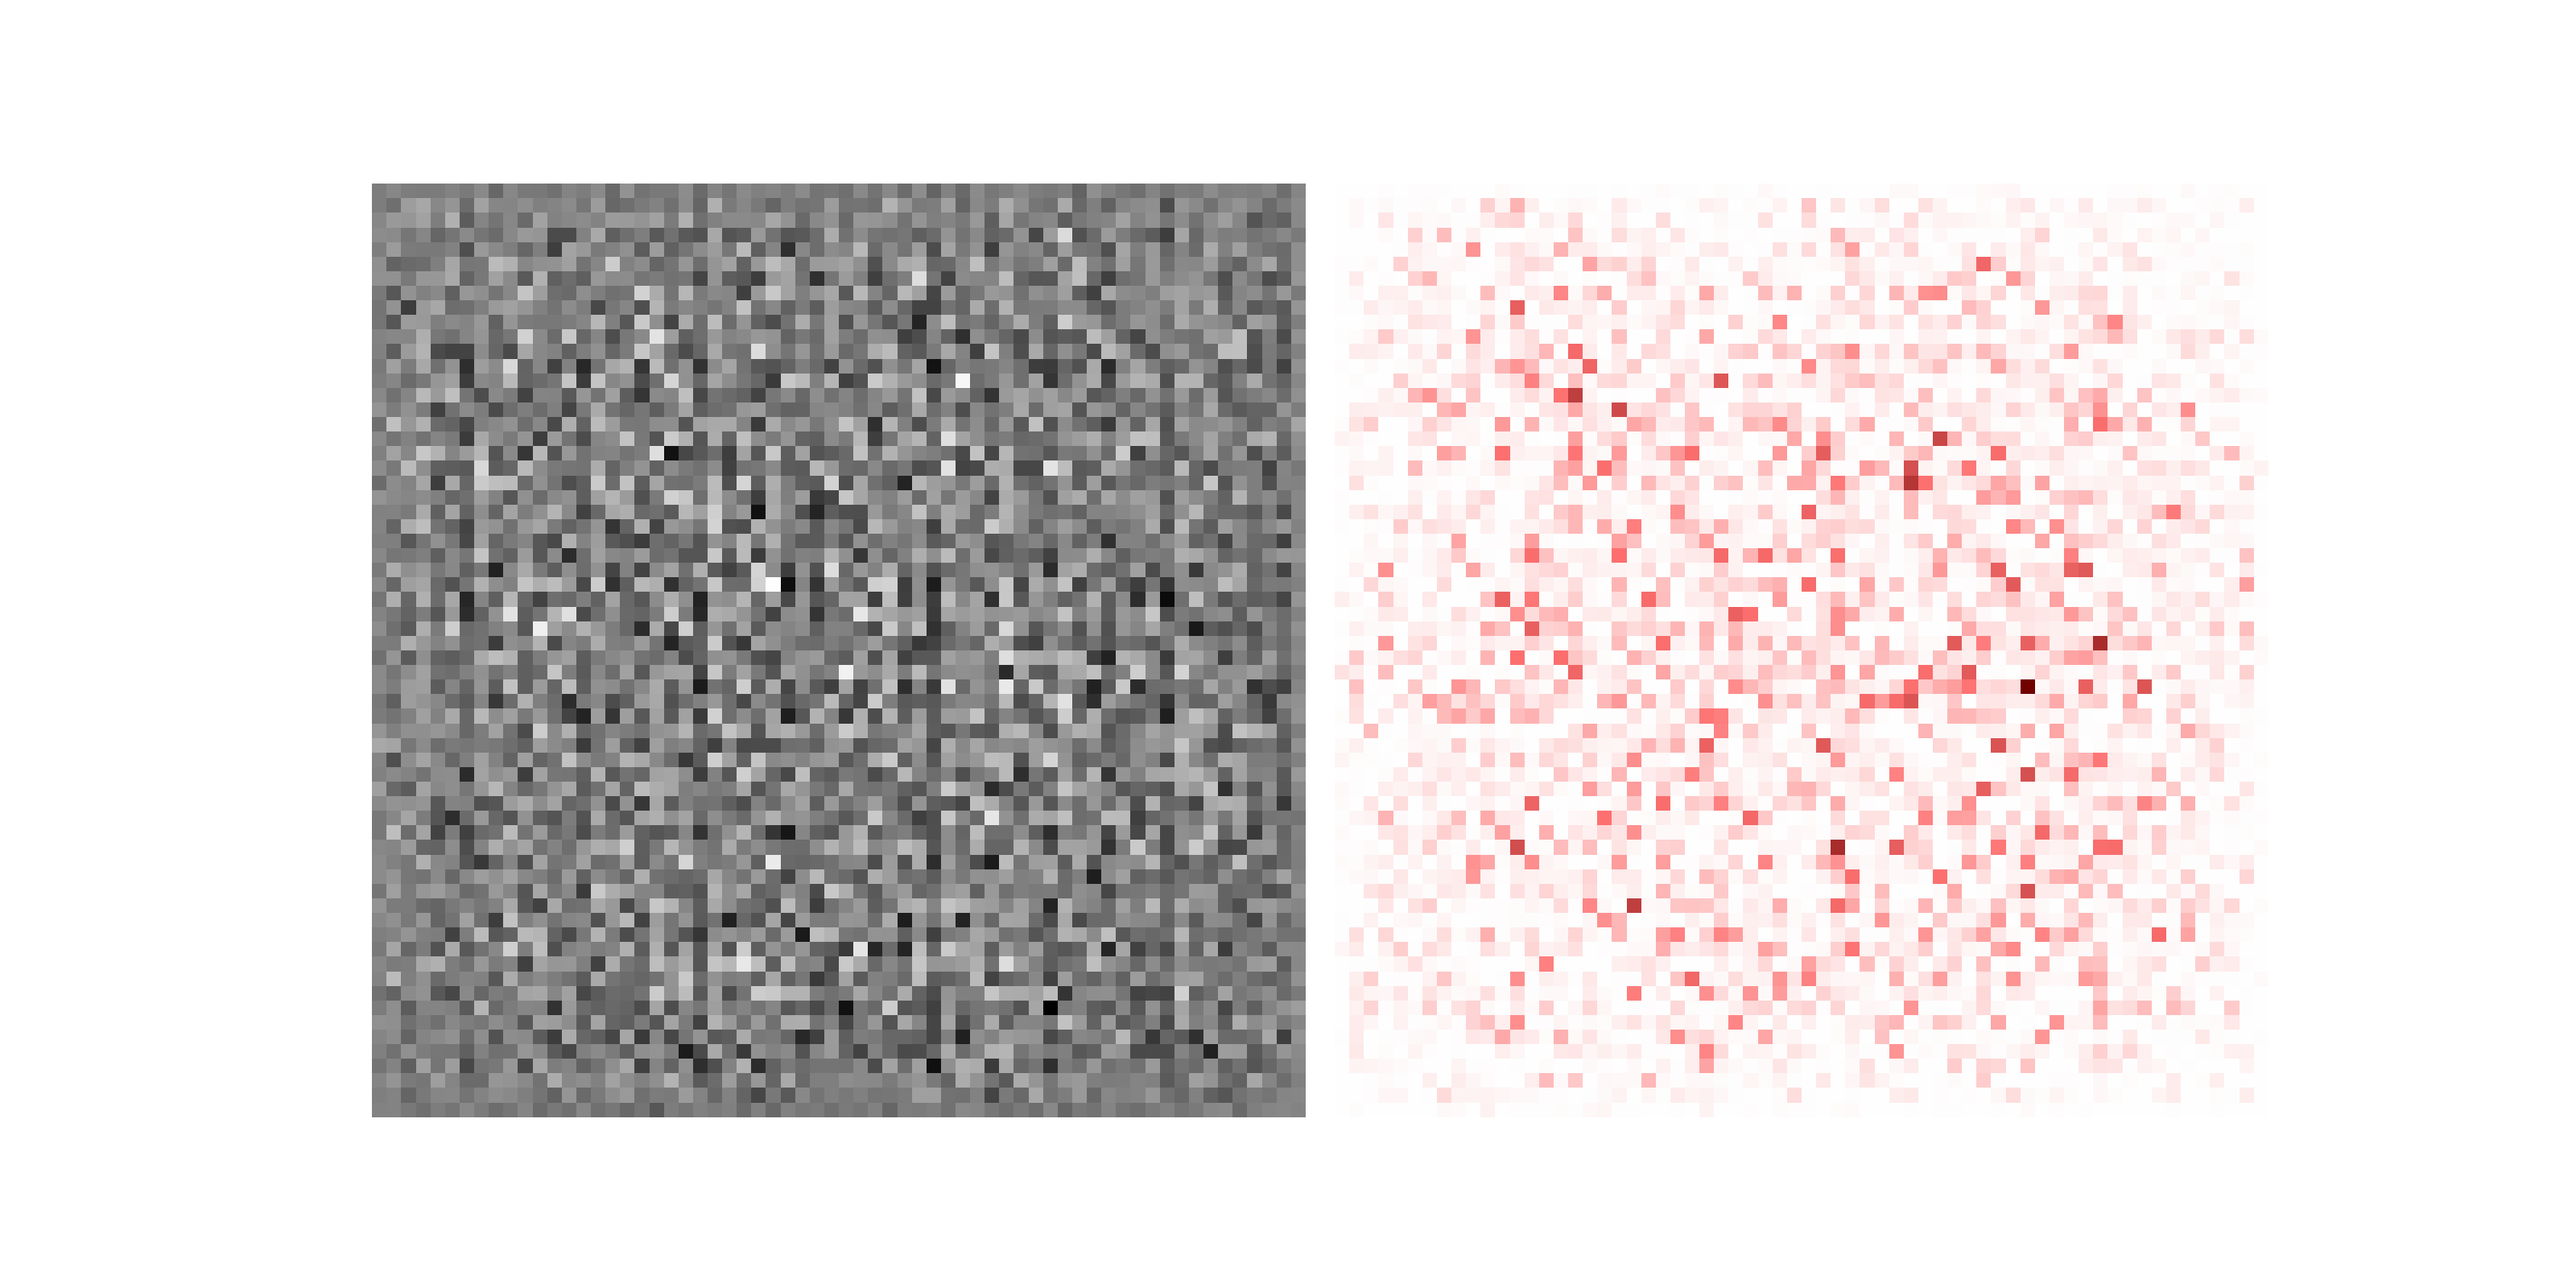
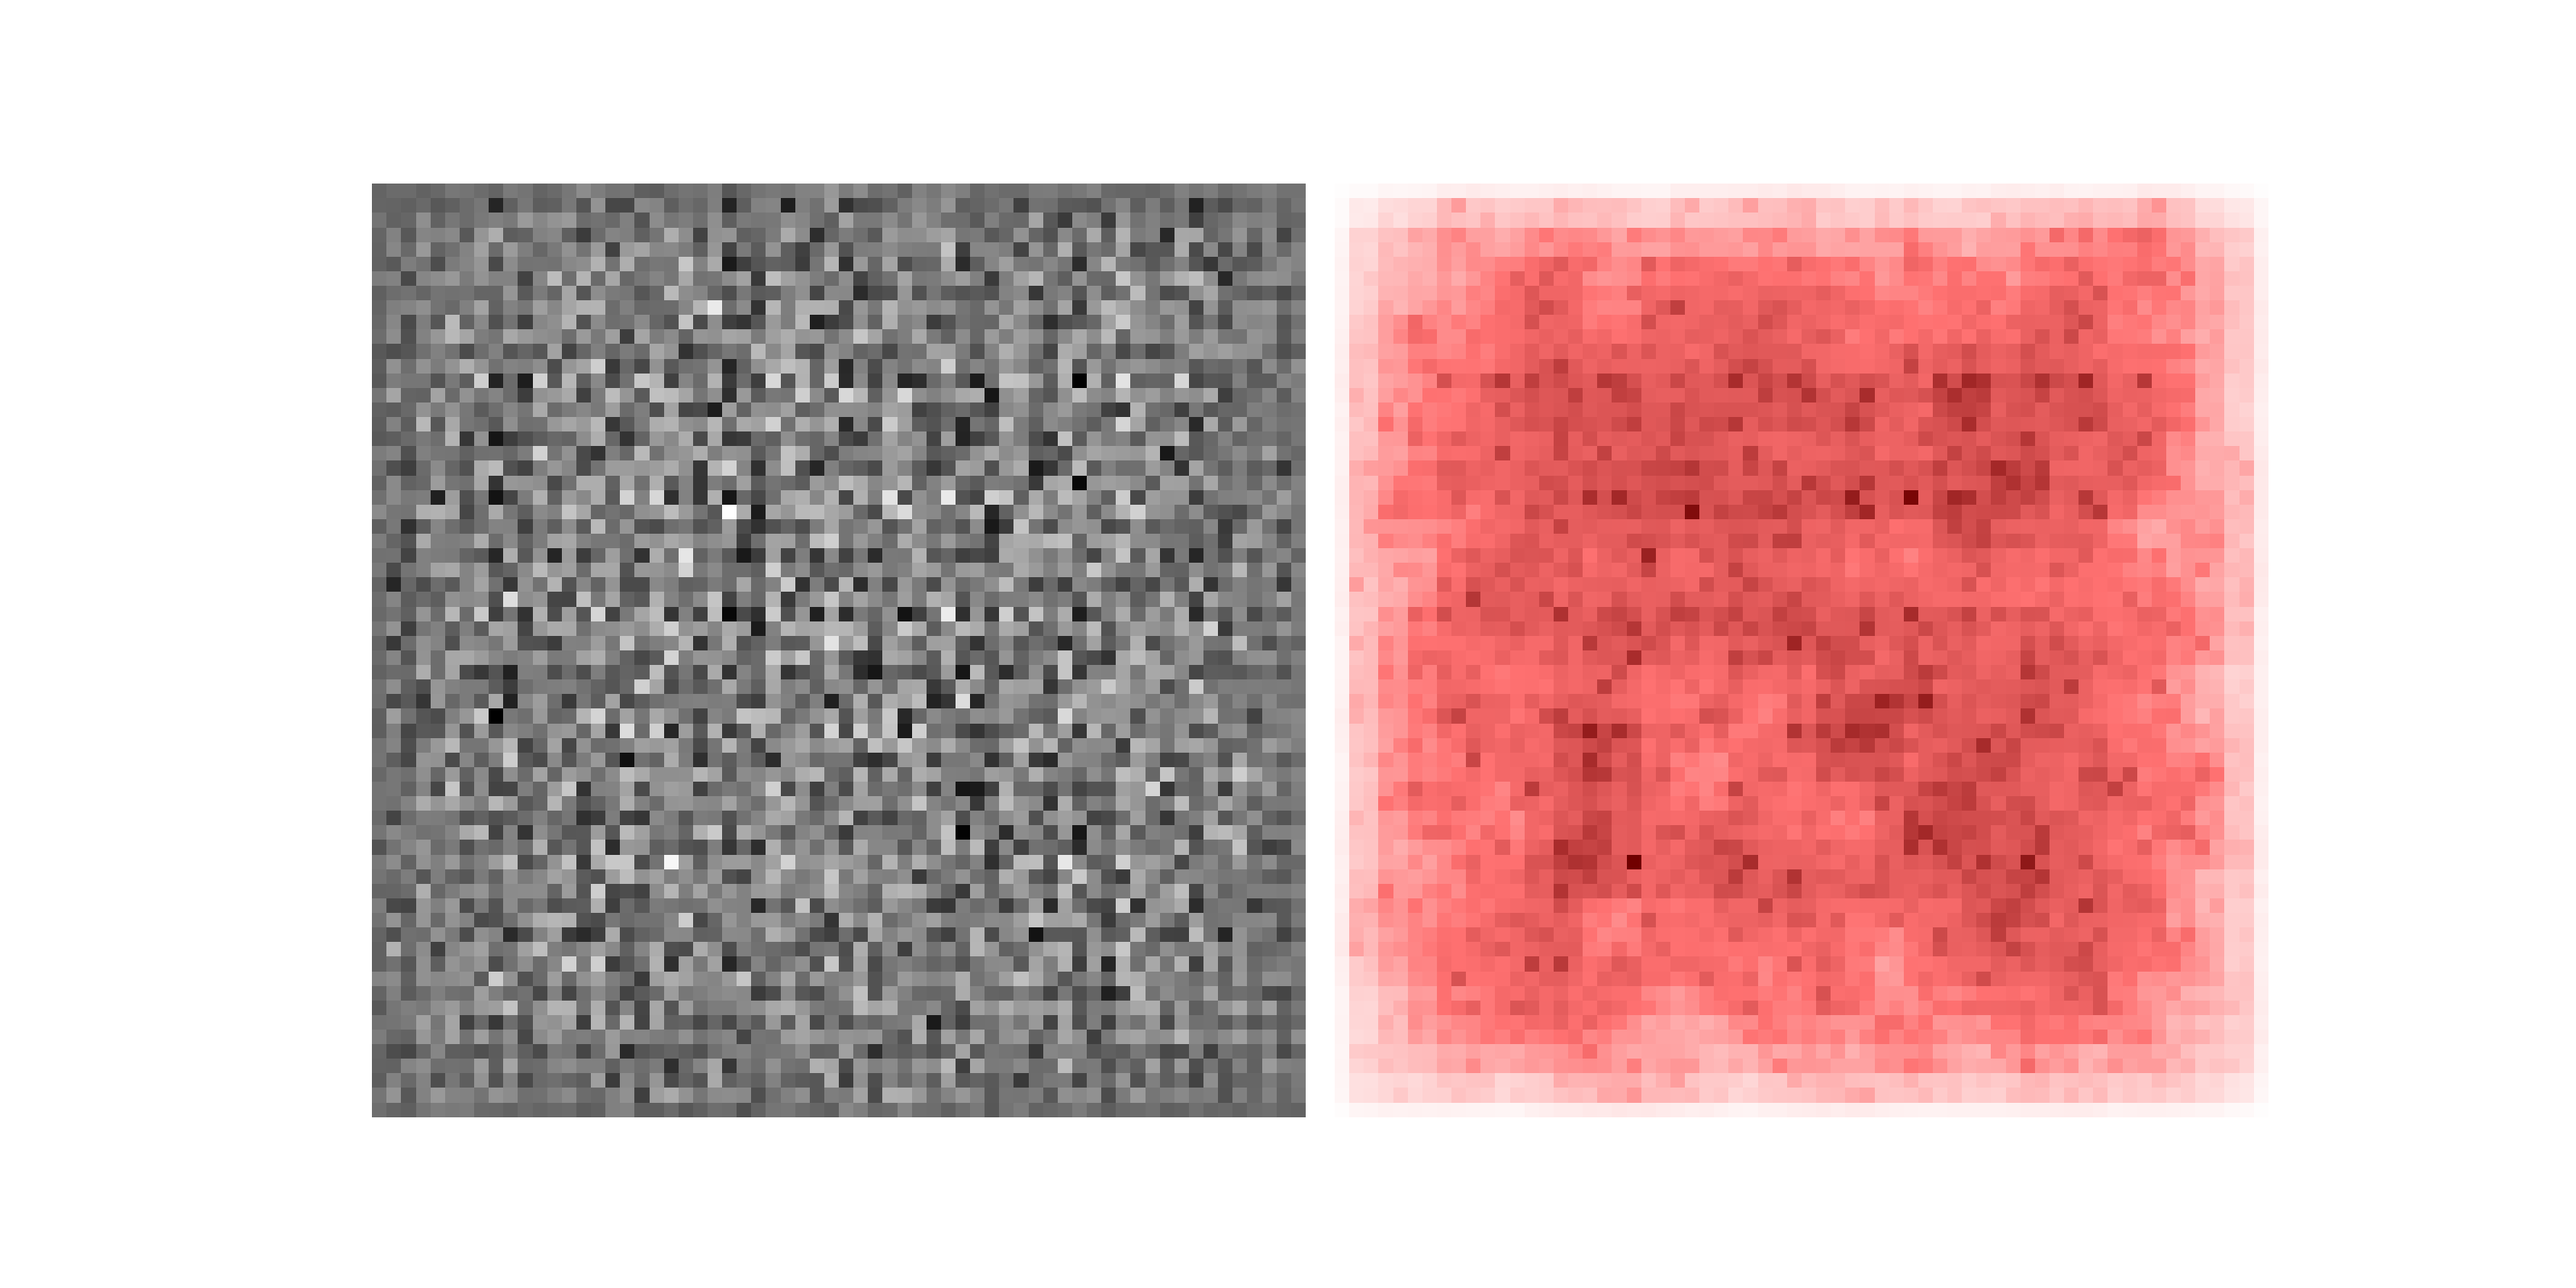
Implemented positive biases

diff --git a/ModuleRedefinitions.py b/ModuleRedefinitions.py
@@ -1,6 +1,7 @@
 import torch
 from torch import nn
 import utils
+import copy
 
 
 class FirstConvolution(nn.Conv2d):
@@ -21,15 +22,21 @@ class FirstConvolution(nn.Conv2d):
     def relprop(self, R):
         iself = type(self)(self.in_channels, self.out_channels, self.kernel_size, self.stride, self.padding)
         iself.load_state_dict(self.state_dict())
+        # Include positive biases as neurons
+        iself_biases = copy.deepcopy(iself.bias.data)
         iself.bias.data *= 0
 
         nself = type(self)(self.in_channels, self.out_channels, self.kernel_size, self.stride, self.padding)
         nself.load_state_dict(self.state_dict())
+        # Include positive biases as neurons
+        nself_biases = copy.deepcopy(nself.bias.data)
         nself.bias.data *= 0
         nself.weight.data = torch.min(torch.Tensor(1).zero_(), nself.weight)
 
         pself = type(self)(self.in_channels, self.out_channels, self.kernel_size, self.stride, self.padding)
         pself.load_state_dict(self.state_dict())
+        # Include positive biases as neurons
+        pself_biases = copy.deepcopy(pself.bias.data)
         pself.bias.data *= 0
         pself.weight.data = torch.max(torch.Tensor(1).zero_(), pself.weight)
 
@@ -38,8 +45,17 @@ class FirstConvolution(nn.Conv2d):
         H = self.X * 0 + utils.highest
 
         iself_f = iself.forward(X)
+        # Expand bias for addition
+        iself_biases = torch.max(torch.Tensor(1).zero_(), iself_biases).unsqueeze(0).unsqueeze(2).unsqueeze(3).expand_as(iself_f)
+        iself_f = iself_f + iself_biases
         pself_f = pself.forward(L)
+        # Expand bias for addition
+        pself_biases = torch.max(torch.Tensor(1).zero_(), pself_biases).unsqueeze(0).unsqueeze(2).unsqueeze(3).expand_as(pself_f)
+        pself_f = pself_f + pself_biases
         nself_f = nself.forward(H)
+        # Expand bias for addition
+        nself_biases = torch.max(torch.Tensor(1).zero_(), nself_biases).unsqueeze(0).unsqueeze(2).unsqueeze(3).expand_as(nself_f)
+        nself_f = nself_f + nself_biases
 
         Z = iself_f - pself_f - nself_f + 1e-9
         S = R / Z
@@ -72,19 +88,30 @@ class NextConvolution(nn.Conv2d):
     def relprop(self, R):
         pself = type(self)(self.in_channels, self.out_channels, self.kernel_size, self.stride, self.padding)
         pself.load_state_dict(self.state_dict())
+        # Include positive biases as neurons
+        pself_biases = copy.deepcopy(pself.bias.data)
         pself.bias.data *= 0
         pself.weight.data = torch.max(torch.Tensor([1e-9]), pself.weight)
 
         nself = type(self)(self.in_channels, self.out_channels, self.kernel_size, self.stride, self.padding)
         nself.load_state_dict(self.state_dict())
+        # Include positive biases as neurons
+        nself_biases = copy.deepcopy(pself.bias.data)
         nself.bias.data *= 0
         nself.weight.data = torch.min(torch.Tensor([-1e-9]), nself.weight)
 
         X = self.X + 1e-9
 
         ZA = pself(X)
+        # expand biases for addition
+        pself_biases = torch.max(torch.Tensor(1).zero_(), pself_biases).unsqueeze(0).unsqueeze(2).unsqueeze(3).expand_as(ZA)
+        ZA = ZA + pself_biases
         SA = self.alpha * torch.div(R, ZA)
+
         ZB = nself(X)
+        # expand biases for addition
+        nself_biases = torch.max(torch.Tensor(1).zero_(), nself_biases).unsqueeze(0).unsqueeze(2).unsqueeze(3).expand_as(ZB)
+        ZB = ZB + nself_biases
         SB = - self.beta * torch.div(R, ZB)
 
         C = torch.autograd.grad(ZA, self.X, SA)[0] + torch.autograd.grad(ZB, self.X, SB)[0]
